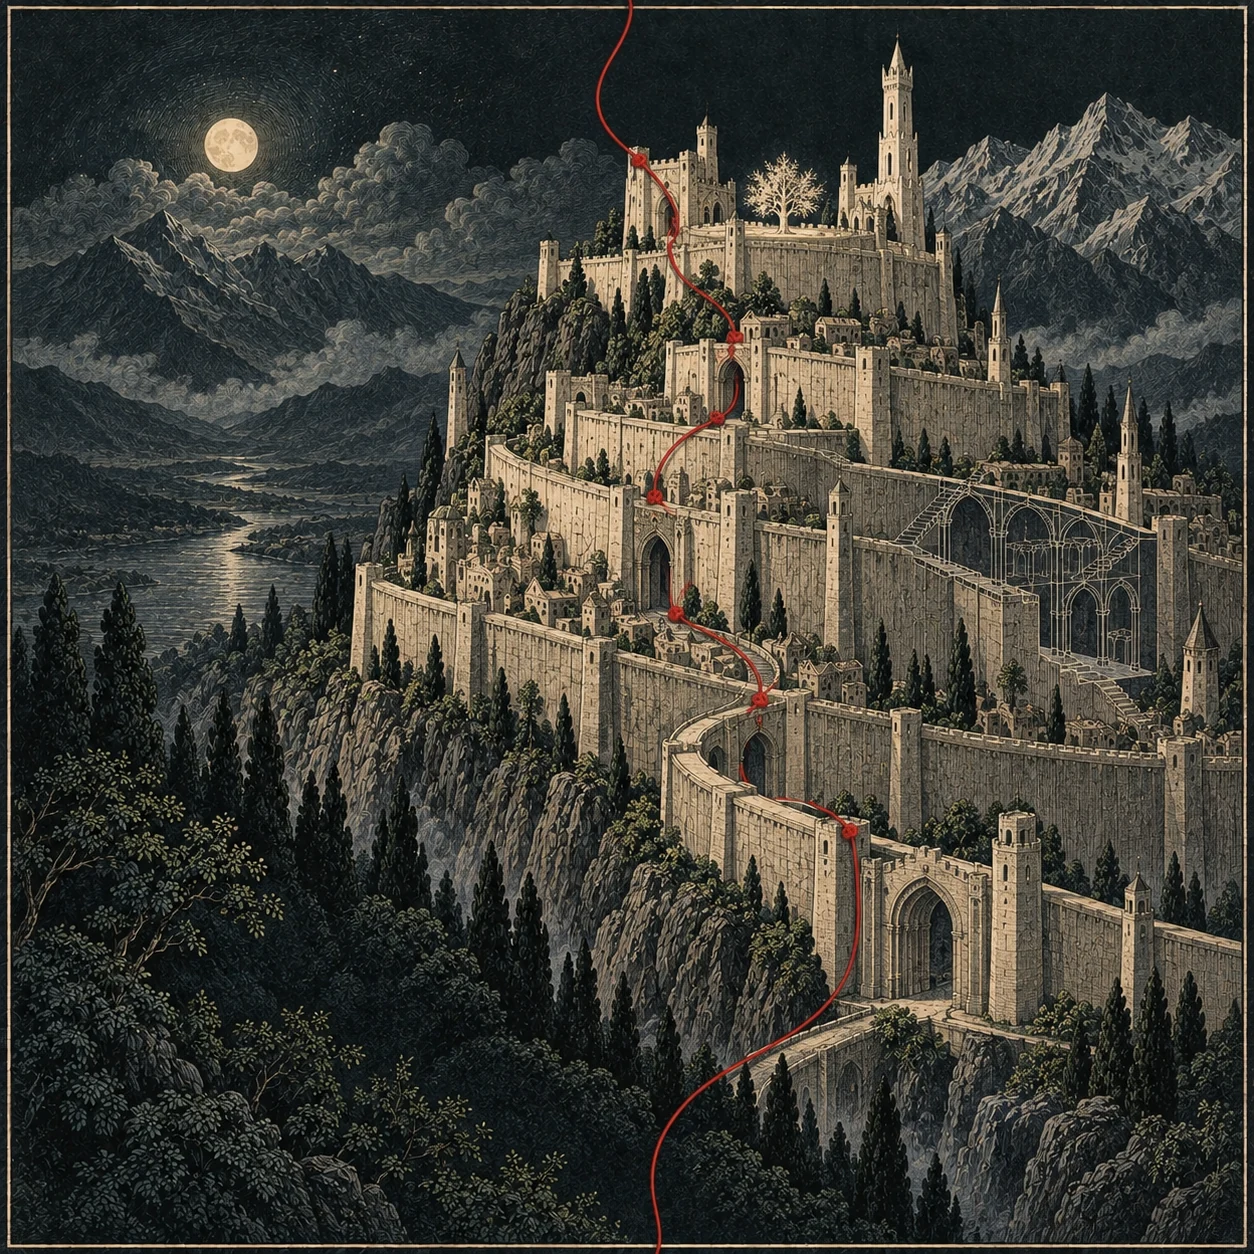
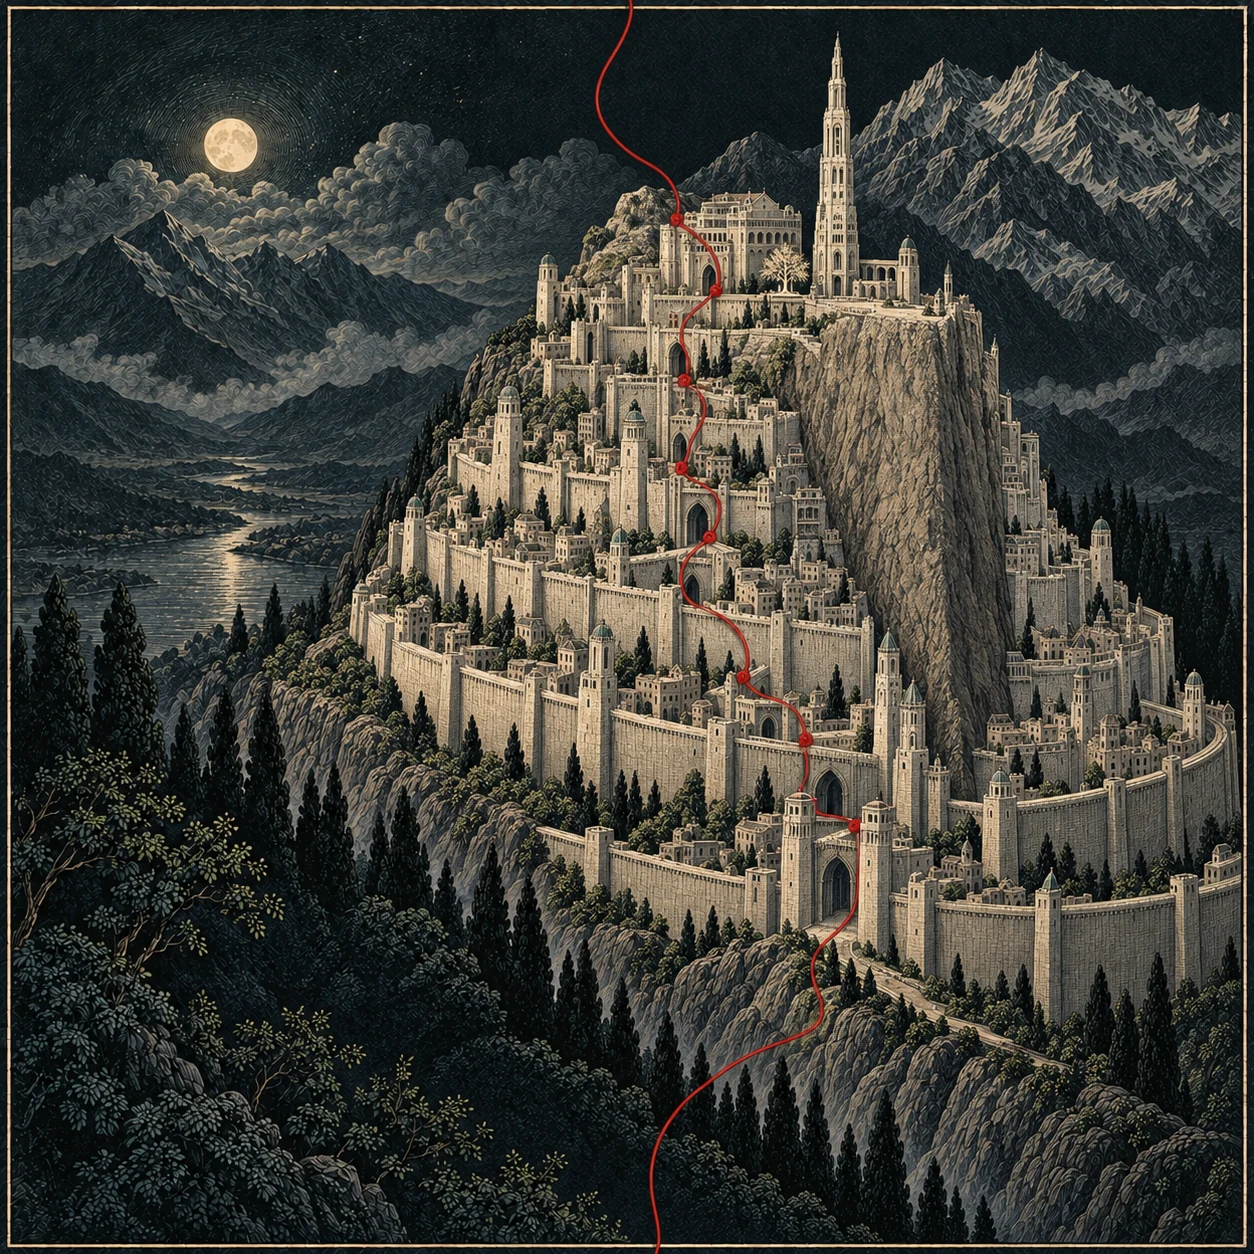
Refine BFME artwork with recognizable Minas Tirith architecture

diff --git a/src/components/portfolio.tsx b/src/components/portfolio.tsx
@@ -176,11 +176,11 @@ export default function Portfolio() {
         <div className="plate-caption annotation"><span>KUNNSKAP SOM BYGGESTEINER</span><span>UIO / USN</span></div>
       </section>
 
-      <Thread start={472.9} end={502.1} label="02 — 03" />
+      <Thread start={472.9} end={502.4} label="02 — 03" />
 
       <section className="plate" id="open-bfme" aria-label="Open BFME">
         <Chapter number="03" title="Å GJENSKAPE" />
-        <Art name="bfme" alt="En Minas Tirith-inspirert hvit festningsby med terrasserte murer, et høyt tårn og det hvite treet foran dramatiske fjell. En rød tråd følger portene gjennom byen." />
+        <Art name="bfme" alt="Minas Tirith i gravyrstil: en enorm klippe deler den hvite byen, med buede murringer på begge sider og et slankt hvitt tårn over citadellet. En rød tråd følger portene gjennom byen." />
         <Card number="03" category="OPEN SOURCE" title="Gamle verdener. Nye oppdagelser." side="lower-left" onOpen={() => openProject("bfme")} action="Utforsk bidragene">
           <p className="note-subtitle">OPEN BFME 1 & 2</p>
           <p>Å forstå et system ved å bygge det opp igjen. Jeg bidrar til rekonstruksjon av spillkode i C++ og ble invitert inn som collaborator i begge prosjektene.</p>
@@ -189,7 +189,7 @@ export default function Portfolio() {
         <div className="plate-caption annotation"><span>BAK FASADEN FINNES ET SYSTEM</span><span>BIDRAG TIL ET FELLES PROSJEKT</span></div>
       </section>
 
-      <Thread start={523.6} end={501.6} label="03 — 04" />
+      <Thread start={523.1} end={501.6} label="03 — 04" />
 
       <section className="plate" id="aipodcast" aria-label="AIpodcast">
         <Chapter number="04" title="Å LYTTE" />

diff --git a/src/app/globals.css b/src/app/globals.css
@@ -12,7 +12,7 @@ button:focus-visible, a:focus-visible, summary:focus-visible { outline: 2px soli
 ::selection { background: #bc483b; color: #fff5e0; }
 #arbeid { --thread-end: 52.67%; }
 #utdanning { --thread-end: 47.29%; }
-#open-bfme { --thread-end: 52.36%; }
+#open-bfme { --thread-end: 52.31%; }
 #aipodcast { --thread-end: 50.56%; }
 #sjakk { --thread-end: 52.27%; }
 @media (prefers-reduced-motion: reduce) { html { scroll-behavior: auto; } *, *::before, *::after { animation: none !important; transition: none !important; } }

diff --git a/docs/bfme-minas-tirith-v2-prompt.md b/docs/bfme-minas-tirith-v2-prompt.md
@@ -1,0 +1,33 @@
+# Open BFME — recognizable Minas Tirith, revision 2
+
+Created with the built-in OpenAI image tool. The exact backend model variant is not exposed by this interface.
+
+The user requested a closer resemblance to Minas Tirith after the first Middle-earth revision.
+
+## Inputs
+
+- Image 1 / edit target and style reference: `public/art/bfme.webp` at commit `02a963e`.
+- Image 2 / architecture only: [Wētā Workshop's Minas Tirith model](https://www.wetanz.com/us/minas-tirith), [original gallery image](https://www.wetanz.com/media/catalog/product/_/l/_lotr_minastirith2022_003_1.jpg).
+- The downloaded reference stays outside the website repository; it is not served by the site.
+
+## Exact prompt
+
+Use case: precise-object-edit.
+Asset type: square fine-art chapter illustration for a software developer portfolio.
+
+Image 1 is the EDIT TARGET and definitive STYLE reference. Image 2 is an official Weta Minas Tirith miniature: use it ONLY as the ARCHITECTURAL reference, not its photographic medium, pedestal or black studio background.
+
+Change the city in Image 1 to look unmistakably like the actual Minas Tirith from The Lord of the Rings films, closely following the city's architectural silhouette and topology in Image 2. The previous city is too much like a generic narrow stack of medieval castles.
+
+Essential geometry: the enormous bare stone rock-prow must dominate the middle of the city, its sheer vertical cliff cutting through and dividing the curved city levels. It extends forward from the mountain, like a ship's bow, with a long flat summit terrace and pointed overlook. This is one continuous natural rock connected to the mountain behind, not a separate column, bridge, waterfall or stone tower. Seven broad concentric semicircular wall rings wrap around BOTH sides of this rock, spreading to a wide inhabited base. The layers contain dense small pale stone houses, arched gateways, crenellations and occasional slender turrets; follow the reference's proportions and fine architecture. The very slender, tall, multi-tiered White Tower of Ecthelion rises above the citadel, with a tiny White Tree in its courtyard. A huge dark White Mountains slope rises directly behind the city, physically connected to it. Make the rock-prow, curved walls and White Tower readable together at a glance. Remove the previous architectural cutaway.
+
+Preserve Image 1's exquisite antique copperplate engraving, fine ivory crosshatching, warm pale masonry, deep midnight blue and forest-green inks, subtle aged paper grain, moonlit contemplative mood and narrow inset ivory frame. Not photorealistic. Compose the complete city at upper-center/right in a slightly elevated three-quarter view with the projecting rock and both sides of its terraced districts visible. Leave shadowed engraved foothills and vegetation in the lower-left quadrant, where a real webpage card overlays the image. Do not draw the card. Keep the city in its landscape, not on a miniature display base.
+
+Preserve the single slender vermilion-red physical thread: enter the TOP edge at 50.21% width, wind elegantly through the city and its gates, and exit the BOTTOM edge at 52.36% width. Keep it delicate, not a glowing laser. Complete square image with all four frame edges visible. No text, logos, watermark, people, battle, extra fantasy landmarks, modern objects, glossy 3D or studio backdrop. The only major change is the city's accuracy and necessary mountain connection; retain the existing artwork's style and series identity.
+
+## Saved artwork
+
+- `public/art/bfme.webp`: 1254 × 1254, desktop version.
+- `public/art/bfme-640.webp`: 640 × 640, mobile version.
+- The generated PNG is preserved in the external source-art collection. The preceding PNG is retained as `bfme-middle-earth-v1.png`.
+- Measured thread endpoints: 50.24% at the top edge, 52.31% at the bottom edge. The adjacent SVG connectors and mobile extension match those positions.

diff --git a/docs/bfme-middle-earth-prompt.md b/docs/bfme-middle-earth-prompt.md
@@ -1,5 +1,7 @@
 # Open BFME — Middle-earth revision
 
+Historical revision from commit `02a963e`. Superseded by [Minas Tirith revision 2](bfme-minas-tirith-v2-prompt.md).
+
 Created with the built-in OpenAI image tool. The exact backend model variant is not exposed by this interface.
 
 Reference 1 / edit target: `public/art/bfme.webp` from the original portfolio release.
@@ -21,7 +23,7 @@ A single slender vermilion-red physical thread enters the TOP edge at 49.8% of t
 
 Constraints: preserve the reference series' detailed engraved/gouache-on-aged-paper visual style and thin inset ivory frame on all four sides. Complete uncropped square artwork. No text, lettering, labels, logos, watermarks, UI, people, portraits, photorealism, glossy 3D rendering, or modern objects. No extra symbols or landmarks competing with Minas Tirith.
 
-## Saved artwork
+## Artwork at this revision
 
 - `public/art/bfme.webp`: 1254 × 1254, desktop version.
 - `public/art/bfme-640.webp`: 640 × 640, mobile version.

diff --git a/docs/artwork-prompts.md b/docs/artwork-prompts.md
@@ -61,7 +61,7 @@ Constraints: fine single cream perimeter rule like the reference. No lettering, 
 
 ## bfme
 
-Current artwork: [Middle-earth / Minas Tirith revision](bfme-middle-earth-prompt.md), generated after the user requested a Lord of the Rings-inspired scene. The original prompt below is retained as history and no longer describes the active artwork.
+Current artwork: [Minas Tirith revision 2](bfme-minas-tirith-v2-prompt.md), using Wētā's model as an architectural reference for a closer resemblance. The [first Middle-earth revision](bfme-middle-earth-prompt.md) and the original prompt below are retained as history and no longer describe the active artwork.
 
 # Open BFME artwork prompt
 
